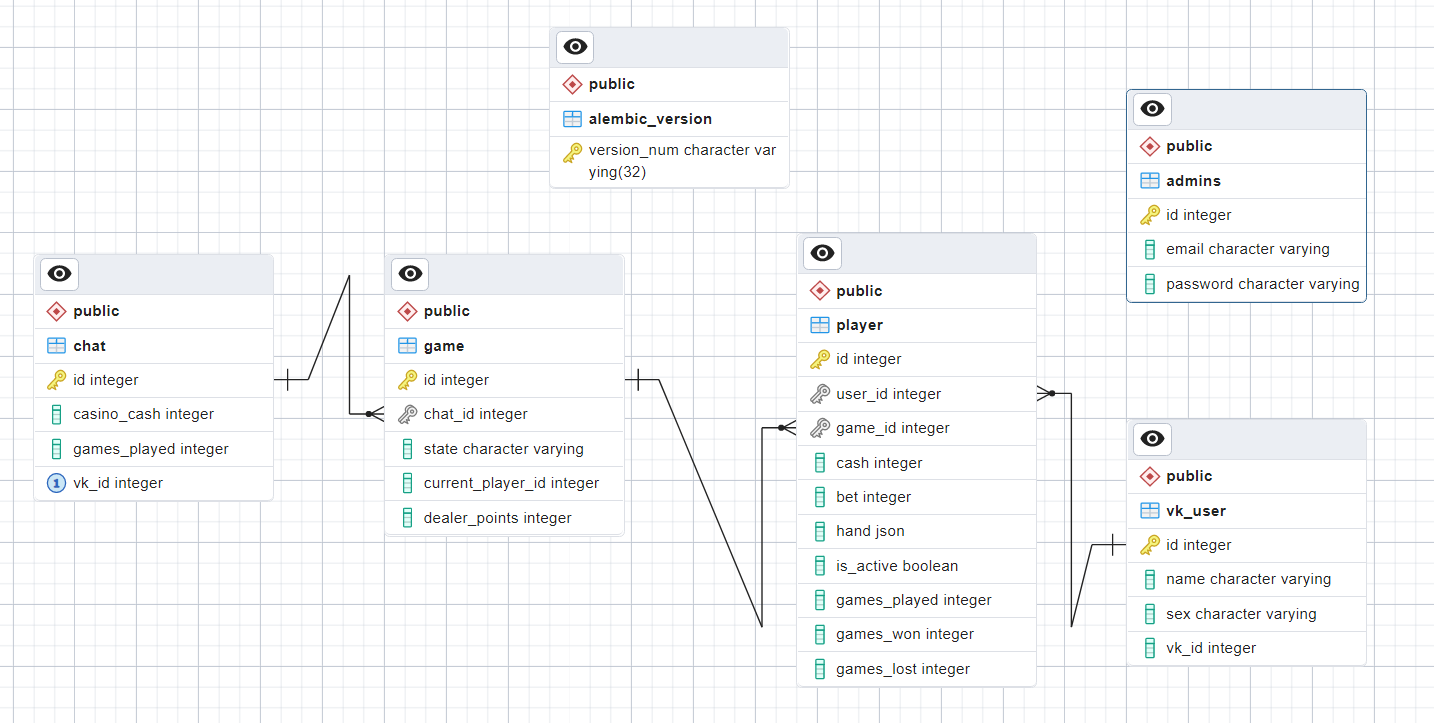
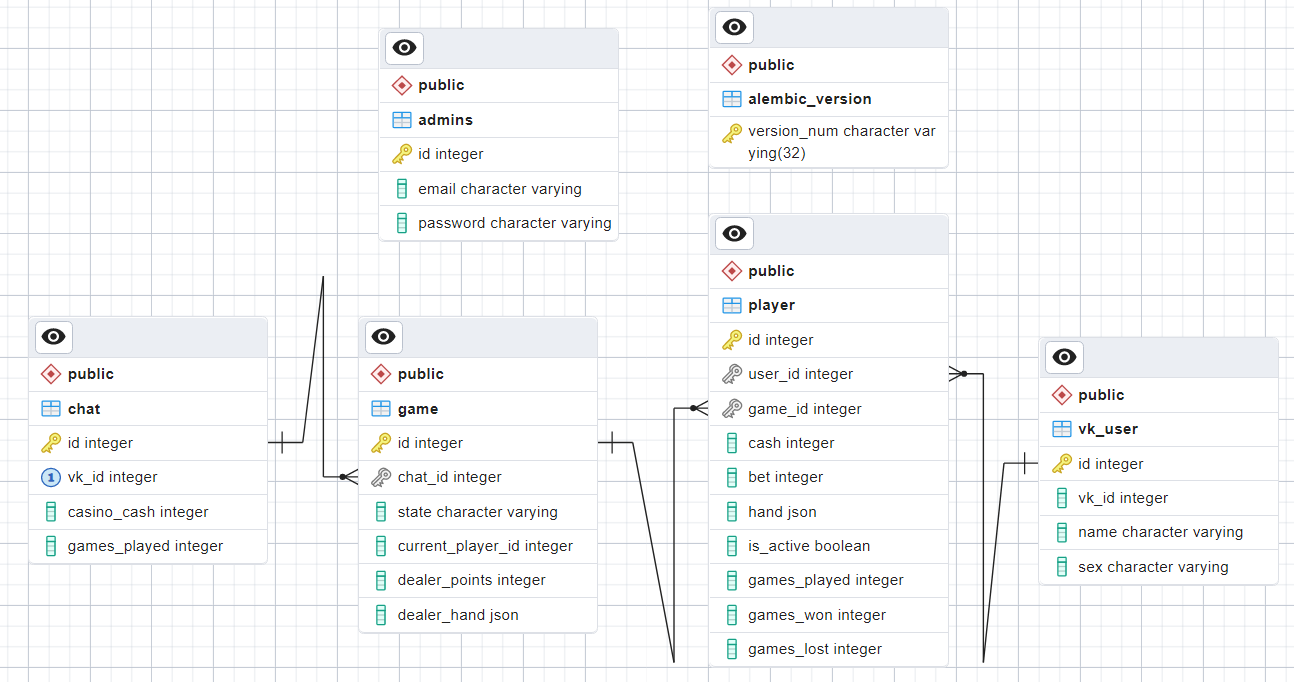
+ filed dealer_hand

diff --git a/alembic/versions/6bcb1402c6ea_added_field_gamemodel_dealer_hand.py b/alembic/versions/6bcb1402c6ea_added_field_gamemodel_dealer_hand.py
@@ -1,0 +1,28 @@
+"""added field GameModel.dealer_hand
+
+Revision ID: 6bcb1402c6ea
+Revises: 9b559eb86b5e
+Create Date: 2023-03-10 13:29:27.127745
+
+"""
+from alembic import op
+import sqlalchemy as sa
+
+
+# revision identifiers, used by Alembic.
+revision = '6bcb1402c6ea'
+down_revision = '9b559eb86b5e'
+branch_labels = None
+depends_on = None
+
+
+def upgrade() -> None:
+    # ### commands auto generated by Alembic - please adjust! ###
+    op.add_column('game', sa.Column('dealer_hand', sa.JSON(), nullable=False))
+    # ### end Alembic commands ###
+
+
+def downgrade() -> None:
+    # ### commands auto generated by Alembic - please adjust! ###
+    op.drop_column('game', 'dealer_hand')
+    # ### end Alembic commands ###

diff --git a/app/game/models.py b/app/game/models.py
@@ -33,6 +33,7 @@ class GameModel(db):
     chat_id = Column(ForeignKey("chat.id", ondelete="CASCADE"), nullable=False)
     state = Column(String, default=GameState.inactive, nullable=False)
     current_player_id = Column(Integer, nullable=True)
+    dealer_hand: dict = Column(JSON, default={"cards": []}, nullable=False)
     dealer_points = Column(Integer, nullable=True)
 
     chat = relationship(
